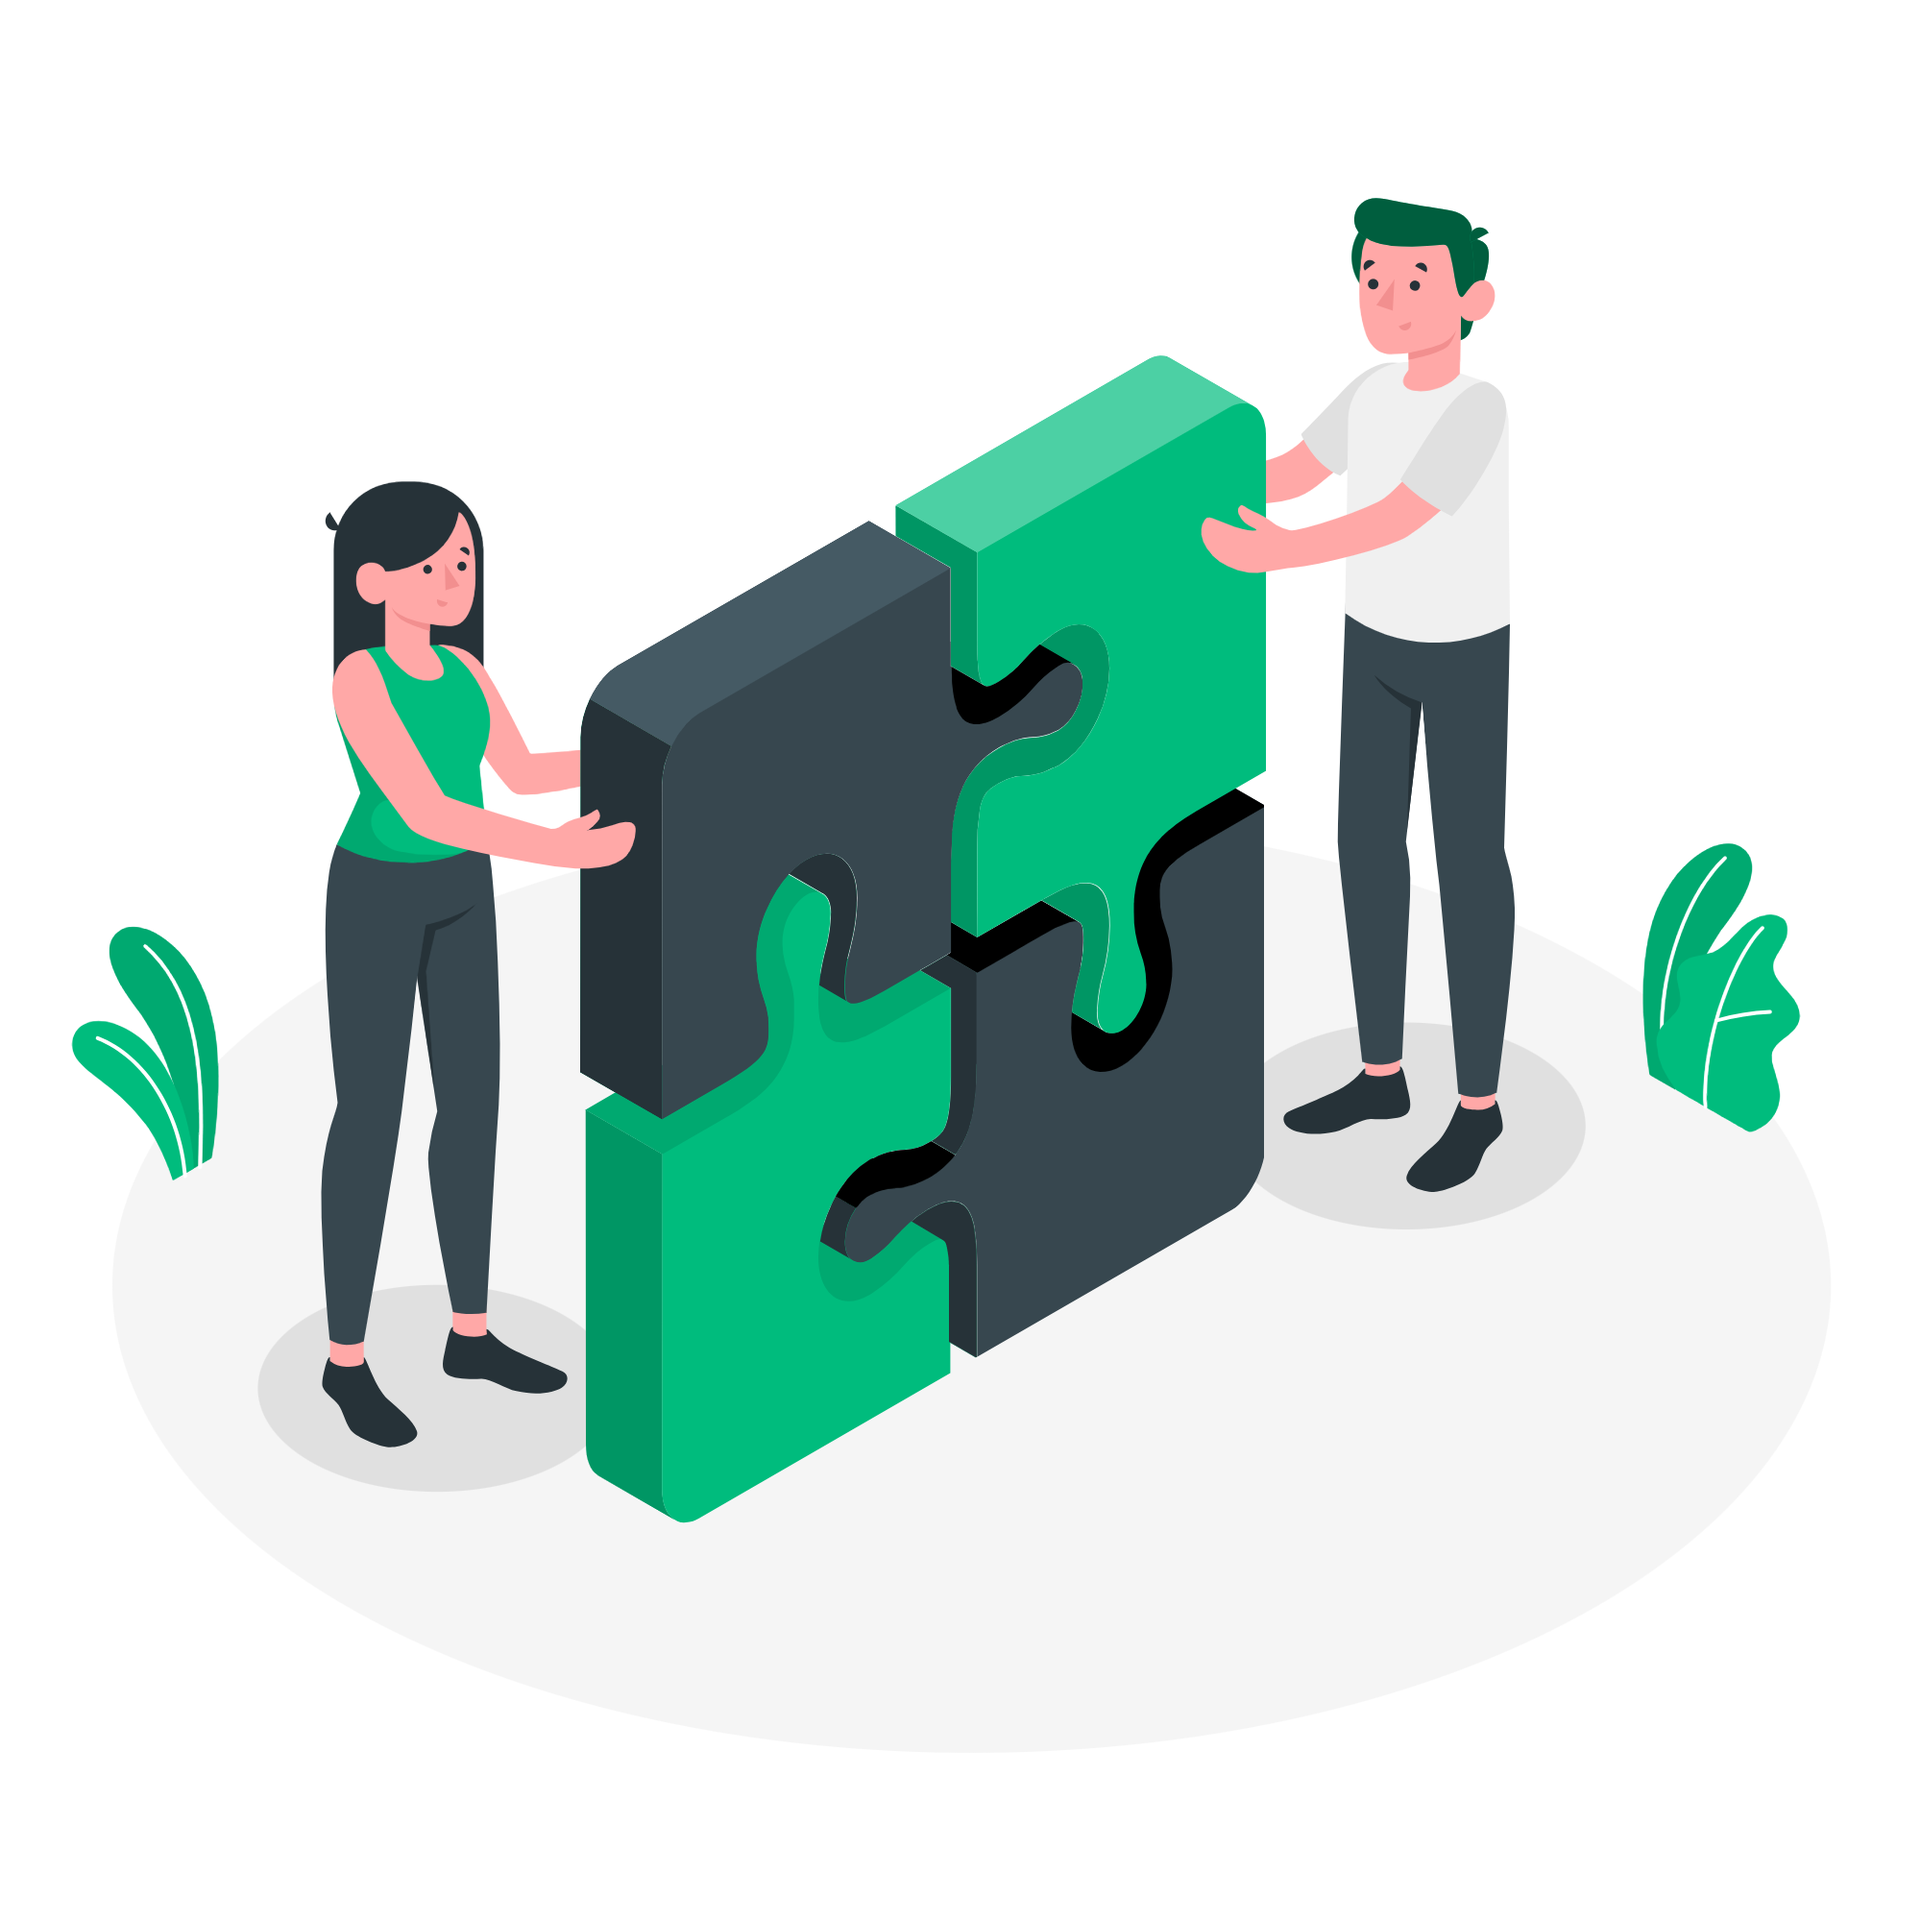
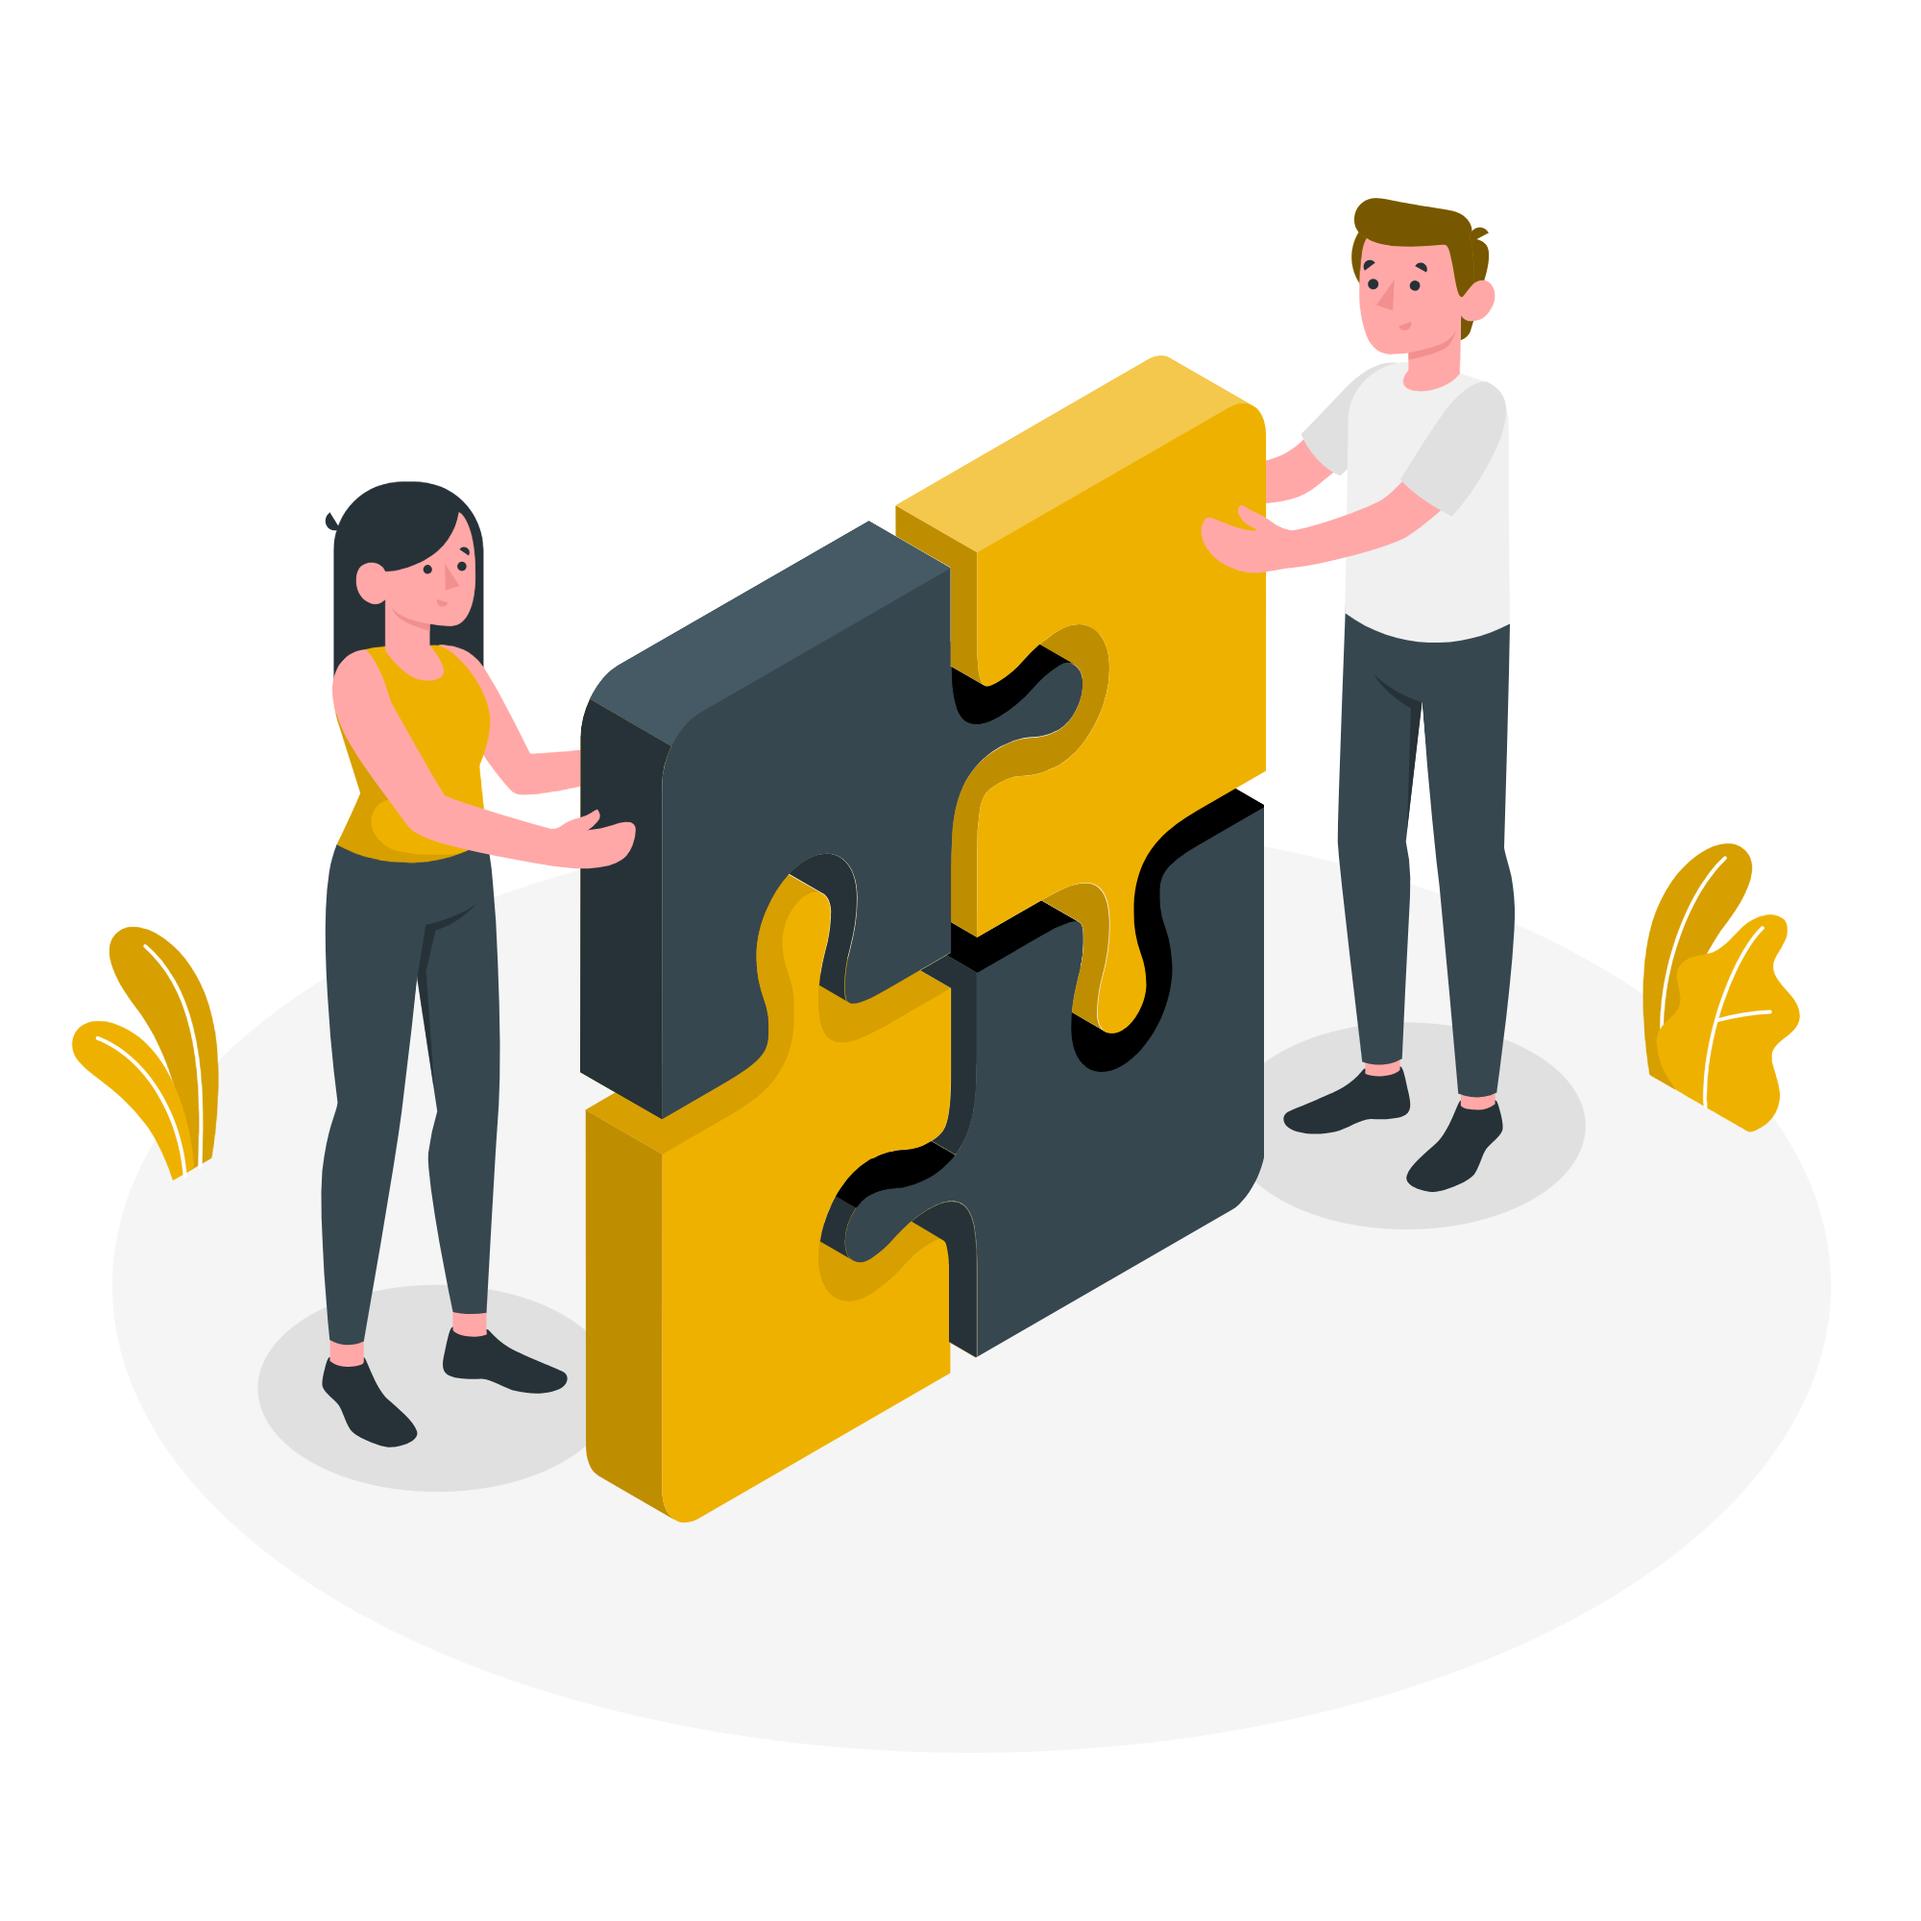
updated UI, mobile nav and some texts

diff --git a/src/components/menu.tsx b/src/components/menu.tsx
@@ -4,13 +4,18 @@ import { navMenu } from "@/config/data/menu";
 import { cn } from "@/lib/utils";
 import { usePathname } from "next/navigation";
 import { useEffect, useState } from "react";
-import { Small } from "./ui/typography";
+import { Label } from "./ui/typography";
+import { Button } from "./ui/button";
+import { MenuIcon, X } from "lucide-react";
+import { AnimatePresence, motion } from "framer-motion";
 
 const Menu = () => {
   const [activeSection, setActiveSection] = useState("home");
   const [isScrolling, setIsScrolling] = useState(false);
+  const [mobileMenuOpen, setMobileMenuOpen] = useState(false);
 
   const pathname = usePathname();
+
   const isActive = (path: string, border = true) => {
     return pathname === path || activeSection === path
       ? `text-signature ${border ? "border-b border-signature" : ""}`
@@ -30,7 +35,7 @@ const Menu = () => {
         if (section) {
           const { offsetTop, offsetHeight } = section;
           if (
-            scrollPosition >= offsetTop - 50 &&
+            scrollPosition >= offsetTop - 150 &&
             scrollPosition < offsetTop + offsetHeight
           ) {
             setActiveSection(section.id);
@@ -40,7 +45,6 @@ const Menu = () => {
     };
 
     window.addEventListener("scroll", handleScroll, { passive: true });
-
     return () => window.removeEventListener("scroll", handleScroll);
   }, [isScrolling]);
 
@@ -49,35 +53,94 @@ const Menu = () => {
 
     const section = document.getElementById(sectionId);
     if (section) {
-      section.scrollIntoView({ behavior: "smooth", block: "start" });
+      const sectionTop = section.getBoundingClientRect().top + window.scrollY;
+      const offset = 100;
+
+      window.scrollTo({
+        top: sectionTop - offset,
+        behavior: "smooth",
+      });
 
       setTimeout(() => {
         setActiveSection(sectionId);
         setIsScrolling(false);
+        setMobileMenuOpen(false); // close mobile menu
       }, 500);
     }
   };
+
   return (
     <>
-    
-    <div className="h-full hidden sm:flex items-center gap-4">
-      {navMenu.map((item) => (
-        <Small
-          key={item.id}
-          onClick={() =>
-            item.id === "home"
-              ? window.scrollTo({ top: 0, behavior: "smooth" })
-              : handleScrollToSection(item.id)
-          }
-          className={cn(
-            "transition-colors flex items-center py-1 capitalize cursor-pointer",
-            isActive(item.id)
+      {/* Desktop Menu */}
+      <div className="h-full text-background hidden sm:flex items-center gap-4">
+        {navMenu.map((item) => (
+          <Label
+            key={item.id}
+            onClick={() =>
+              item.id === "home"
+                ? window.scrollTo({ top: 0, behavior: "smooth" })
+                : handleScrollToSection(item.id)
+            }
+            className={cn(
+              "transition-colors flex items-center py-1 capitalize cursor-pointer",
+              isActive(item.id)
+            )}
+          >
+            {item.label}
+          </Label>
+        ))}
+      </div>
+
+      {/* Mobile Menu Button */}
+      <>
+        <div className="sm:hidden">
+          <Button
+            className="h-12 w-12"
+            variant="default"
+            onClick={() => setMobileMenuOpen(!mobileMenuOpen)}
+          >
+            {mobileMenuOpen ? (
+              <X className="text-background size-8" />
+            ) : (
+              <MenuIcon className="text-background size-8" />
+            )}
+          </Button>
+        </div>
+
+        {/* Animated Mobile Menu */}
+        <AnimatePresence>
+          {mobileMenuOpen && (
+            <motion.div
+              initial={{ height: 0, opacity: 0, y: -20 }}
+              animate={{ height: "30vh", opacity: 1, y: 0 }}
+              exit={{ height: 0, opacity: 0, y: -20 }}
+              transition={{ duration: 0.4, ease: "easeInOut" }}
+              className="absolute top-[123.6px] left-0 w-full bg-foreground/90 backdrop-blur z-50 p-4 sm:hidden overflow-hidden"
+            >
+              <div className="flex flex-col h-full justify-around gap-4">
+                {navMenu.map((item) => (
+                  <Label
+                    key={item.id}
+                    onClick={() => {
+                      item.id === "home"
+                        ? window.scrollTo({ top: 0, behavior: "smooth" })
+                        : handleScrollToSection(item.id);
+                      setMobileMenuOpen(false); // close menu on click
+                    }}
+                    className={cn(
+                      "capitalize cursor-pointer text-background",
+                      isActive(item.id, false)
+                    )}
+                  >
+                    {item.label}
+                  </Label>
+                ))}
+              </div>
+            </motion.div>
           )}
-        >
-          {item.label}
-        </Small>
-      ))}
-    </div></>
+        </AnimatePresence>
+      </>
+    </>
   );
 };
 

diff --git a/src/components/hero.tsx b/src/components/hero.tsx
@@ -9,7 +9,7 @@ import {
 import { cta, description, HeroImages, tagline } from "@/config/data/hero";
 import Image from "next/image";
 import Link from "next/link";
-import { H2, H4 } from "./ui/typography";
+import { H1, H2, H4 } from "./ui/typography";
 import { motion } from "framer-motion";
 
 const Hero = () => {
@@ -26,7 +26,7 @@ const Hero = () => {
           <CarouselContent>
             {HeroImages.map((image, idx) => (
               <CarouselItem key={idx} className="w-full">
-                <div className="w-full h-[60vh] md:h-[600px] relative">
+                <div className="w-full h-[90vh] md:h-[600px] relative">
                   <Image
                     src={image}
                     alt={`Banner ${idx + 1}`}
@@ -45,8 +45,8 @@ const Hero = () => {
       </div>
 
       {/* Glassmorphism Text Overlay */}
-      <div className="relative z-10 w-full flex justify-center items-center min-h-[260px] md:min-h-[600px]">
-        <motion.div
+      <div className="relative z-10 w-full flex justify-center items-center h-[90vh] md:h-[600px]">
+        {/* <motion.div
           initial={{ opacity: 0, y: 40 }}
           animate={{ opacity: 1, y: 0 }}
           transition={{ duration: 0.9, ease: "easeOut" }}
@@ -59,6 +59,12 @@ const Hero = () => {
             mx-auto flex flex-col items-center text-center
             rounded-xl
           "
+        > */}
+        <motion.div
+          initial={{ opacity: 0, y: 40 }}
+          animate={{ opacity: 1, y: 0 }}
+          transition={{ duration: 0.9, ease: "easeOut" }}
+          className="p-8 md:p-14 max-w-screen-lg flex flex-col mr-auto"
         >
           {/* Animated Tagline */}
           <motion.div
@@ -66,9 +72,9 @@ const Hero = () => {
             animate={{ opacity: 1, y: 0 }}
             transition={{ delay: 0.2, duration: 0.7 }}
           >
-            <H2 className="text-white font-bold text-2xl sm:text-3xl md:text-5xl tracking-tight drop-shadow-lg mb-2 sm:mb-3">
+            <H1 className="text-white font-bold drop-shadow-lg mb-2 sm:mb-3">
               {tagline}
-            </H2>
+            </H1>
           </motion.div>
           <motion.div
             initial={{ opacity: 0, y: 20 }}
@@ -84,15 +90,10 @@ const Hero = () => {
             initial={{ opacity: 0, scale: 0.95 }}
             animate={{ opacity: 1, scale: 1 }}
             transition={{ delay: 0.6, duration: 0.5 }}
-            className="flex flex-col sm:flex-row gap-3 sm:gap-4 w-full justify-center"
+            className="flex flex-col sm:flex-row gap-3 sm:gap-4 w-full"
           >
             {cta.map((item, idx) => (
-              <Button
-                key={idx}
-                variant={item.variant}
-                size="lg"
-                asChild
-              >
+              <Button key={idx} variant={item.variant} size="lg" asChild>
                 <Link href={item.link}>{item.label}</Link>
               </Button>
             ))}

diff --git a/src/components/brand.tsx b/src/components/brand.tsx
@@ -1,19 +1,16 @@
-import { H3 } from "./ui/typography";
+import Image from "next/image";
+import logo from "../../public/images/logo.png";
 
 const Brand = () => {
   const handleScrollToTop = () => {
     window.scrollTo({ top: 0, behavior: "smooth" });
   };
-  const brand = "Foodie";
   return (
     <button
       onClick={handleScrollToTop}
-      className="flex items-center gap-2 cursor-pointer"
+      className="flex items-center gap-2 cursor-pointer h-full "
     >
-      <H3 className="">
-        <span className="text-signature">{brand[0]}</span>
-        {brand.slice(1)}
-      </H3>
+      <Image src={logo} alt="Foodie" width={100} height={100} />
     </button>
   );
 };

diff --git a/src/components/ui/typography.tsx b/src/components/ui/typography.tsx
@@ -8,7 +8,7 @@ const typographyVariants = cva("", {
       // Headings
       heading: "font-antonio text-2xl font-bold leading-tight md:text-4xl bg-gradient-to-br from-signature via-signature to-primary text-transparent bg-clip-text",
       subheading: "font-antonio text-xl font-semibold leading-snug md:text-3xl",
-      h1: "font-antonio text-4xl font-bold leading-tight md:text-5xl lg:text-6xl",
+      h1: "font-antonio text-4xl font-bold leading-tight md:text-5xl",
       h2: "font-antonio text-3xl font-bold leading-tight md:text-4xl",
       h3: "font-antonio text-2xl font-bold leading-tight md:text-3xl",
       h4: "font-antonio text-xl font-semibold leading-snug md:text-2xl",

diff --git a/src/components/footer.tsx b/src/components/footer.tsx
@@ -59,7 +59,7 @@ const Footer = () => {
           </div>
 
           <div>
-            <h4 className="font-semibold">Our Locations</h4>
+            <h4 className="font-semibold">Our Cloud Kitchen Locations</h4>
             <ul className="mt-2">
               {companyInfo.locations.map((location, idx) => (
                 <li key={idx}>
@@ -71,7 +71,7 @@ const Footer = () => {
         </div>
 
         <div className="text-center text-sm">
-          <p>© {new Date().getFullYear()} FoodieKit. All rights reserved.</p>
+          <p>© {new Date().getFullYear()} FoodieKit Nig Ltd. All rights reserved.</p>
         </div>
       </Container>
     </div>

diff --git a/src/config/data/hero.ts b/src/config/data/hero.ts
@@ -2,10 +2,10 @@ import { ButtonVariants } from "@/components/ui/button";
 
 import img1 from "../../../public/images/img1.webp";
 import img2 from "../../../public/images/img2.webp";
-import img3 from "../../../public/images/img3.webp";
+import img3 from "../../../public/images/img3.jpg";
 import img4 from "../../../public/images/img4.webp";
 
-export const HeroImages = [img1, img2, img3, img4];
+export const HeroImages = [img1, img2,img3, img4];
 export const tagline =
   "Redefining Food Access with Smart Kitchens & Farm-Fresh Ingredients";
 export const description =

diff --git a/src/components/navbar.tsx b/src/components/navbar.tsx
@@ -6,7 +6,7 @@ import Menu from "./menu";
 
 const Navbar = () => {
   return (
-    <div className="sticky top-0 left-0 right-0 z-40 bg-background/90 backdrop-blur-sm border-b h-16 flex justify-center">
+    <div className="sticky top-0 left-0 right-0 z-40 bg-foreground/90 backdrop-blur h-[15vh] flex justify-center">
       <Container className="w-full h-full flex items-center justify-between">
         <Brand />
         <Menu />

diff --git a/src/app/page.tsx b/src/app/page.tsx
@@ -6,7 +6,7 @@ import HowItWorksSection from "@/components/sections/how-it-works";
 import NewsletterSignUpSection from "@/components/sections/newsletter";
 export default function Home() {
   return (
-    <div className="text-justify">
+    <div>
       <Hero />
       <AboutUsSection />
       <HowItWorksSection />

diff --git a/src/app/globals.css b/src/app/globals.css
@@ -46,7 +46,7 @@
 
 :root {
   --radius: 0.625rem;
-  --signature: oklch(69.6% 0.17 162.48);
+  --signature: oklch(79.5% 0.184 86.047);
   --background: oklch(1 0 0);
   --foreground: oklch(0.145 0 0);
   --card: oklch(1 0 0);
